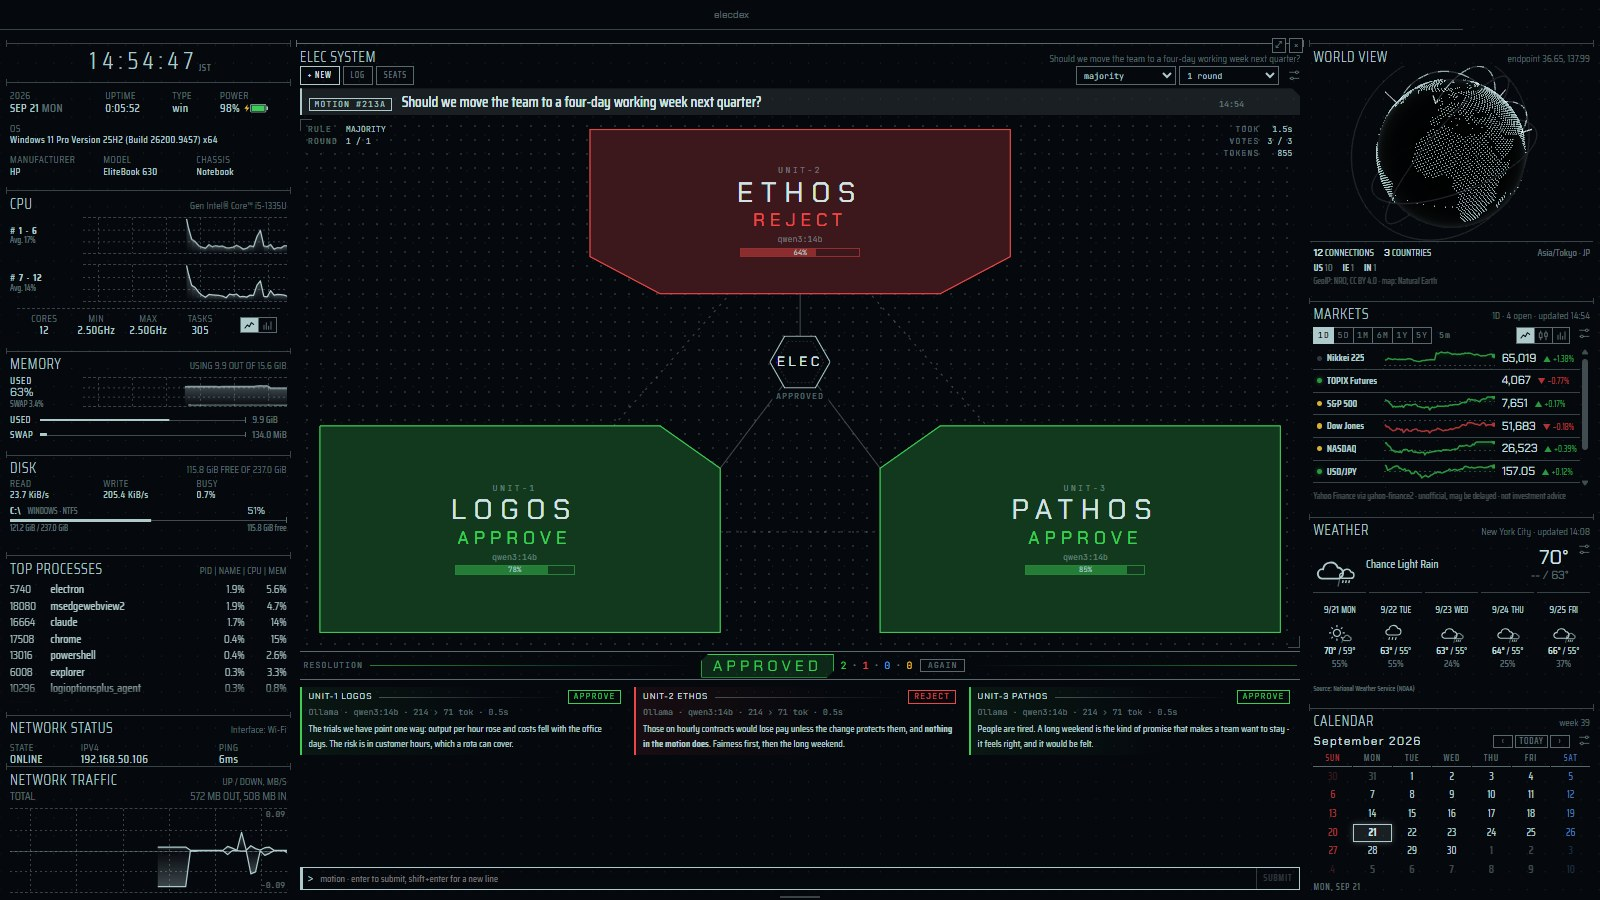
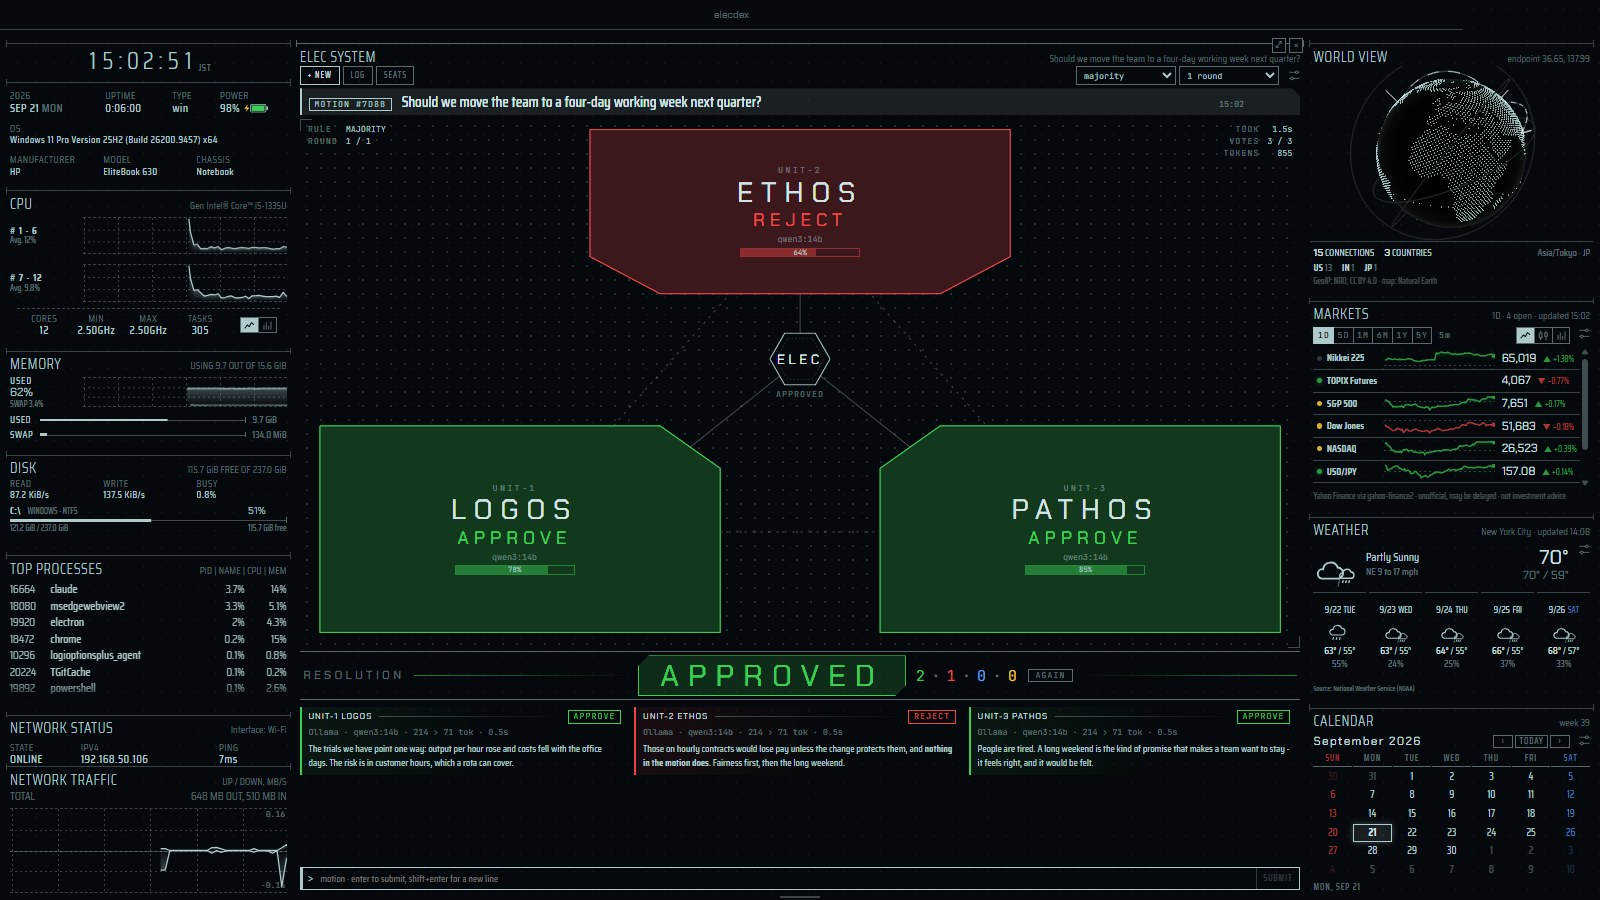
fix(elec): the core between the plates, and a resolution the size of a decision / コアはプレートの間に、決議は決定らしい大きさに
The core now sits half-way between the top plate's lower edge and the lower plates' upper edges, where it reads as the centre of the three, and the resolution band grows to a band of its own: the verdict at step 3, the tally at step 1, falling back to step 1 in a narrow pane so QUORUM NOT MET stays on one line. / コアを上のプレートの下端と下の 2 枚の上端の中間に置き、3 枚の中心に見えるようにした。決議の帯は独立した帯の大きさにし、判定を step 3、票数を step 1 に。狭いペインでは判定を step 1 に下げ、QUORUM NOT MET を 1 行に保つ。

diff --git a/src/renderer/widgets/elec/ElecWidget.svelte b/src/renderer/widgets/elec/ElecWidget.svelte
@@ -850,9 +850,10 @@ select:focus {
   --tone: var(--text-muted);
   display: flex;
   align-items: center;
-  gap: var(--space-2);
-  min-height: 2.2rem;
-  padding: 0 var(--space-1);
+  gap: var(--space-3);
+  /* The decision is what the pane is for: a band of its own, not a status line. */
+  min-height: 3.6rem;
+  padding: var(--space-1);
   border-block: 1px solid var(--panel-rule);
   font-family: var(--font-mono);
   font-size: var(--step--2);
@@ -886,6 +887,9 @@ select:focus {
 
 .label {
   flex: none;
+  font-family: var(--font-display);
+  font-size: var(--step-0);
+  letter-spacing: var(--tracking-wider);
 }
 
 .rule {
@@ -910,25 +914,41 @@ select:focus {
 .pending {
   display: inline-flex;
   gap: var(--space-2);
+  font-size: var(--step-0);
   letter-spacing: var(--tracking-wider);
 }
 
 /* The verdict, struck in the display face between two rules of its colour. */
 .verdict {
-  padding: 0.05rem 0.8rem;
+  padding: 0.1rem 1.6rem;
   border: 1px solid var(--tone);
-  background: color-mix(in srgb, var(--tone) 16%, transparent);
+  background: color-mix(in srgb, var(--tone) 18%, transparent);
   font-family: var(--font-display);
-  font-size: var(--step-1);
-  letter-spacing: var(--tracking-wider);
+  font-size: var(--step-3);
+  line-height: 1.2;
+  letter-spacing: 0.3em;
   color: var(--tone);
-  clip-path: polygon(0.5rem 0, 100% 0, 100% calc(100% - 0.5rem), calc(100% - 0.5rem) 100%, 0 100%, 0 0.5rem);
+  text-shadow: 0 0 calc(var(--glow) * 0.6rem) var(--tone);
+  clip-path: polygon(0.8rem 0, 100% 0, 100% calc(100% - 0.8rem), calc(100% - 0.8rem) 100%, 0 100%, 0 0.8rem);
+}
+
+/* A narrow pane keeps the verdict on one line: QUORUM NOT MET is the longest it says. */
+@container (max-width: 34rem) {
+  .verdict {
+    padding: 0.1rem 0.8rem;
+    font-size: var(--step-1);
+    letter-spacing: var(--tracking-wider);
+  }
+
+  .resolution .label {
+    display: none;
+  }
 }
 
 .tally {
   display: inline-flex;
-  gap: 0.3rem;
-  font-size: var(--step--1);
+  gap: 0.4rem;
+  font-size: var(--step-1);
   color: var(--text-muted);
 }
 

diff --git a/src/renderer/widgets/elec/Stage.svelte b/src/renderer/widgets/elec/Stage.svelte
@@ -72,9 +72,9 @@ const PLATES: Record<UnitIndex, { points: string; box: [number, number, number, 
   <div class="board">
     <svg class="frame" viewBox="0 0 100 100" preserveAspectRatio="none" aria-hidden="true">
       <polygon class="ring" points="50,18 22,78 78,78" vector-effect="non-scaling-stroke" />
-      <line class="spoke" x1="50" y1="33" x2="50" y2="46" vector-effect="non-scaling-stroke" />
-      <line class="spoke" x1="42" y1="66" x2="50" y2="46" vector-effect="non-scaling-stroke" />
-      <line class="spoke" x1="58" y1="66" x2="50" y2="46" vector-effect="non-scaling-stroke" />
+      <line class="spoke" x1="50" y1="33" x2="50" y2="45.5" vector-effect="non-scaling-stroke" />
+      <line class="spoke" x1="39" y1="62" x2="50" y2="45.5" vector-effect="non-scaling-stroke" />
+      <line class="spoke" x1="61" y1="62" x2="50" y2="45.5" vector-effect="non-scaling-stroke" />
       {#each units as view (view.unit)}
         <polygon
           class="plate"
@@ -291,11 +291,16 @@ const PLATES: Record<UnitIndex, { points: string; box: [number, number, number, 
   stroke-dasharray: 4 3;
 }
 
-/* The core: a hexagon where the spokes meet, and what the council is doing under it. */
+/*
+ * The core: a hexagon where the spokes meet, and what the council is doing under it. Its centre
+ * is half-way between the top plate's lower edge (33) and the lower plates' upper edges (58) -
+ * the middle of the gap between the plates, not of the board, nor the centroid of the ring
+ * (58), which sat it down among the lower plates.
+ */
 .core {
   position: absolute;
   left: 50%;
-  top: 46%;
+  top: 45.5%;
   display: flex;
   flex-direction: column;
   align-items: center;

diff --git a/docs/architecture.md b/docs/architecture.md
@@ -726,6 +726,11 @@ LAN の外にキーを送らないか）は `main/ai/target.ts` の `targetFor` 
   一度閃く（`elec-flash`）— どちらも `backwards` で `--motion-scale` を掛ける。
 - 中段の **resolution** 帯: `RESOLUTION ── APPROVED ── 2·1·0·0 ── again`。決議の語は `crt-on` +
   `transition:crtPower` で点灯する（通知と同じ扱い）。審議中は `▰▱▱▱ deliberating`。
+  決定がこのペインの目的なので、帯は状態行ではなく独立した帯の大きさ（高さ 3.6rem、判定は `--step-3`、
+  票数は `--step-1`）。幅 34rem 未満のペインでは判定を `--step-1` に下げ、`RESOLUTION` の見出しを隠す
+  （最長の `QUORUM NOT MET` を 1 行に保つ）。
+- コアの六角形は、上のプレートの下端（33）と下の 2 枚の上端（58）の中間（45.5）に置く。盤面の中央でも、
+  輪の重心（58、下のプレートの間に沈んで見えた）でもない（利用者の指摘 2026-09-21）。
 - 下段の記録: 3 ユニットの声明は
   幅があれば横並び、狭ければ縦積みのカード（左の線と票のチップが票の色）。第 2 回では第 1 回の声明を
   `round 1 · reject` の折りたたみに。
